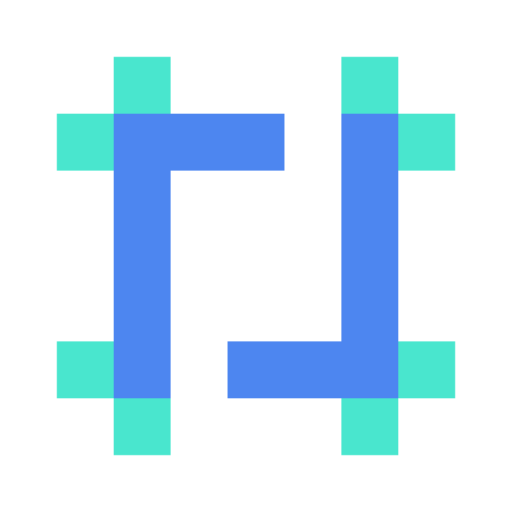
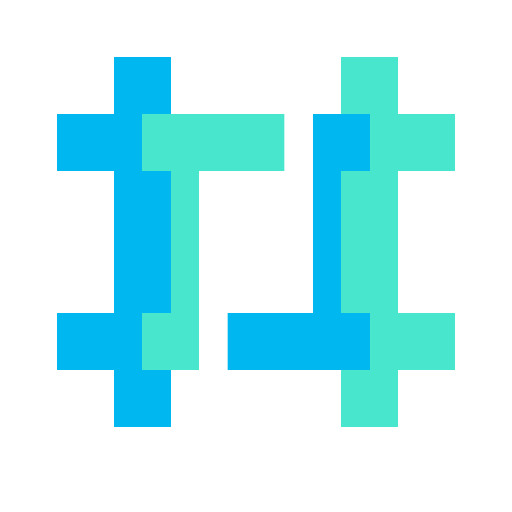
chore: 更新静态资源

diff --git a/app/(main)/about/page.tsx b/app/(main)/about/page.tsx
@@ -1,9 +1,18 @@
+import Balancer from "react-wrap-balancer";
+
 import {Container} from '~/components/ui/Container'
 
 export default function AboutPage() {
-    return (
-        <Container>
-            <h1 className="mt-10">给我点时间开发一下...</h1>
-        </Container>
-    )
+  return (
+    <Container className="mt-16 sm:mt-24">
+      <header className="max-w-2xl">
+        <h1 className="text-4xl font-bold tracking-tight text-zinc-800 dark:text-zinc-100 sm:text-5xl">
+          About 关于我
+        </h1>
+        <p className="my-6 text-base text-zinc-600 dark:text-zinc-400">
+          <Balancer>你好！给我点时间开发一下...</Balancer>
+        </p>
+      </header>
+    </Container>
+  )
 }

diff --git a/app/(main)/blog/page.tsx b/app/(main)/blog/page.tsx
@@ -6,7 +6,7 @@ import {Container} from '~/components/ui/Container'
 import {BlogPosts} from './BlogPosts'
 
 const description =
-    '写博客文章是我比较喜欢的沉淀分享方式，我希望能够把好用的技术知识传递给更多的人。我比较喜欢围绕着技术为主的话题，但是也会写一些非技术的话题，比如设计、创业、企业管理、生活随笔等等。'
+    '我希望通过写写博客，掌握当下流行的知识、记录平凡的生活。我的座右铭是「君子不器，正道直行」。我希望可以通过自己的努力，无限进步，享受到安逸的生活。'
 export const metadata = {
     title: '我的博客',
     description,

diff --git a/app/(main)/Headline.tsx b/app/(main)/Headline.tsx
@@ -32,7 +32,7 @@ function Designer() {
                 <span
                     className="absolute -right-0.5 -top-0.5 h-1.5 w-1.5 border border-cyan-700 bg-zinc-50 dark:border-cyan-400"/>
             </span>
-      设计师
+      工程师
         </span>
     )
 }
@@ -50,7 +50,7 @@ function Founder() {
     return (
         <span className="group">
             <UserSecurityIcon className="mr-1 inline-flex group-hover:fill-zinc-600/20 dark:group-hover:fill-zinc-200/20"/>
-            <span>创始人</span>
+            <span>学习者</span>
         </span>
     )
 }

diff --git a/app/(main)/NavigationBar.tsx b/app/(main)/NavigationBar.tsx
@@ -67,7 +67,7 @@ function Desktop({
                 'rounded-full bg-gradient-to-b from-zinc-50/70 to-white/90',
                 'shadow-lg shadow-zinc-800/5 ring-1 ring-zinc-900/5 backdrop-blur-md',
                 'dark:from-zinc-900/70 dark:to-zinc-800/90 dark:ring-zinc-100/10',
-                '[--spotlight-color:rgb(236_252_203_/_0.6)] dark:[--spotlight-color:rgb(217_249_157_/_0.07)]',
+                '[--spotlight-color:rgb(165_243_252_/_0.6)] dark:[--spotlight-color:rgb(217_249_157_/_0.07)]',
                 className
             )}
             {...props}

diff --git a/components/Avatar.tsx b/components/Avatar.tsx
@@ -3,8 +3,8 @@ import { clsxm } from '@zolplay/utils'
 import Image from 'next/image'
 import Link, { type LinkProps } from 'next/link'
 
-import portraitImage from '~/assets/Portrait.png'
-import portraitAltImage from '~/assets/PortraitAlt.jpg'
+import portraitImage from '~/assets/Portrait.jpg'
+import portraitAltImage from '~/assets/PortraitAlt.png'
 
 function AvatarContainer({ className, ...props }: ComponentProps) {
   return (

diff --git a/emails/Layout.tsx b/emails/Layout.tsx
@@ -50,7 +50,7 @@ export default function Layout({
                   <strong>Cali Castle</strong>
                 </Link>
                 <br />
-                开发者、设计师、细节控、创始人
+                开发者、工程师、细节控、学习者
               </Text>
               <Text className="text-center">
                 <Link

diff --git a/config/nav.ts b/config/nav.ts
@@ -3,6 +3,5 @@ export const navigationItems = [
   { href: '/blog', text: '博客' },
   { href: '/projects', text: '项目' },
   { href: '/guestbook', text: '留言墙' },
-  { href: '/ama', text: 'AMA 咨询' },
-  // { href: '/about', text: '关于' },
+  { href: '/about', text: '关于' },
 ]

diff --git a/app/globals.css b/app/globals.css
@@ -27,8 +27,8 @@ html.dark {
 }
 
 ::selection {
-    background-color: theme('colors.lime.500');
-    color: theme('colors.lime.950');
+    background-color: theme('colors.cyan.500');
+    color: theme('colors.cyan.950');
 }
 
 @keyframes typing-pulse {

diff --git a/middleware.ts b/middleware.ts
@@ -63,6 +63,5 @@ export default authMiddleware({
         '/about',
         '/rss',
         '/feed',
-        '/ama',
     ],
 })
